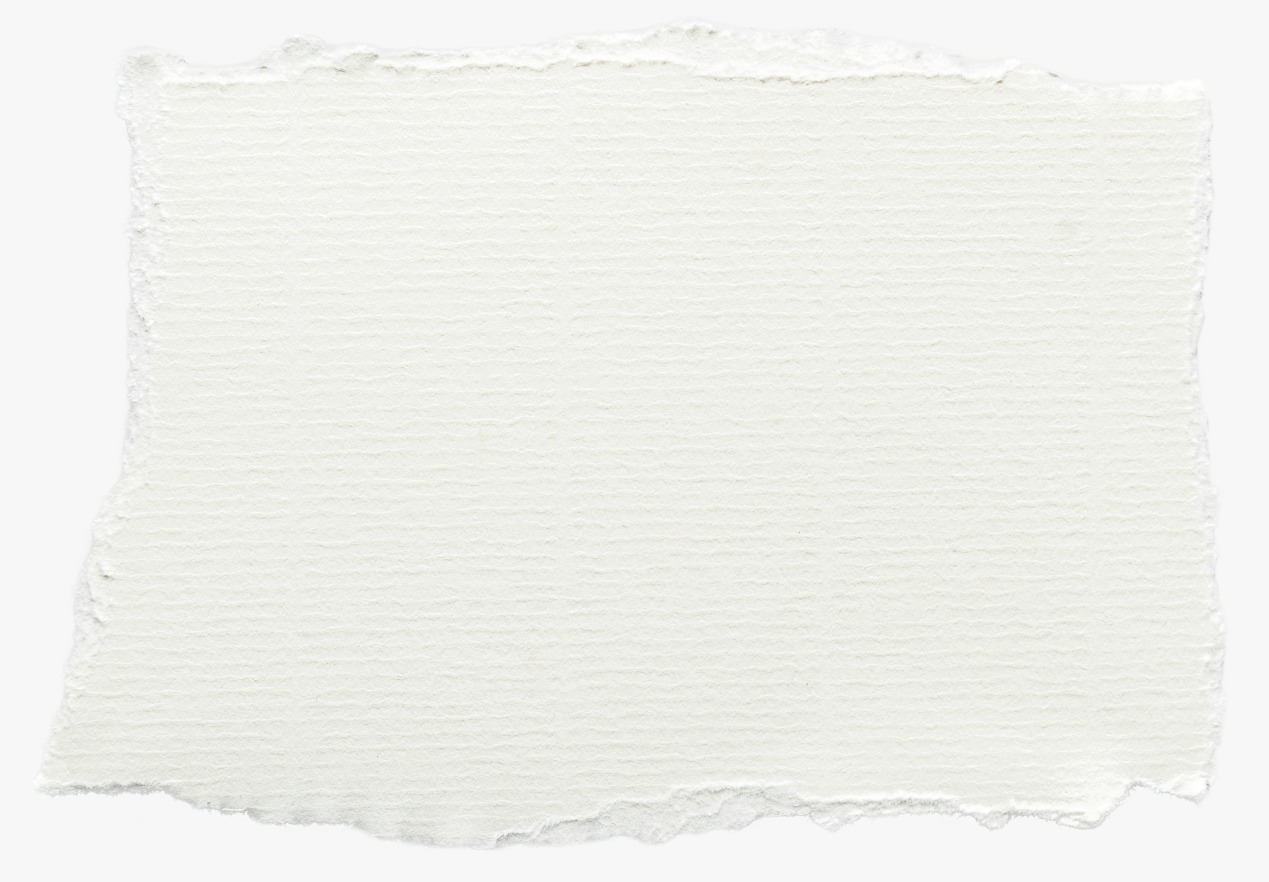
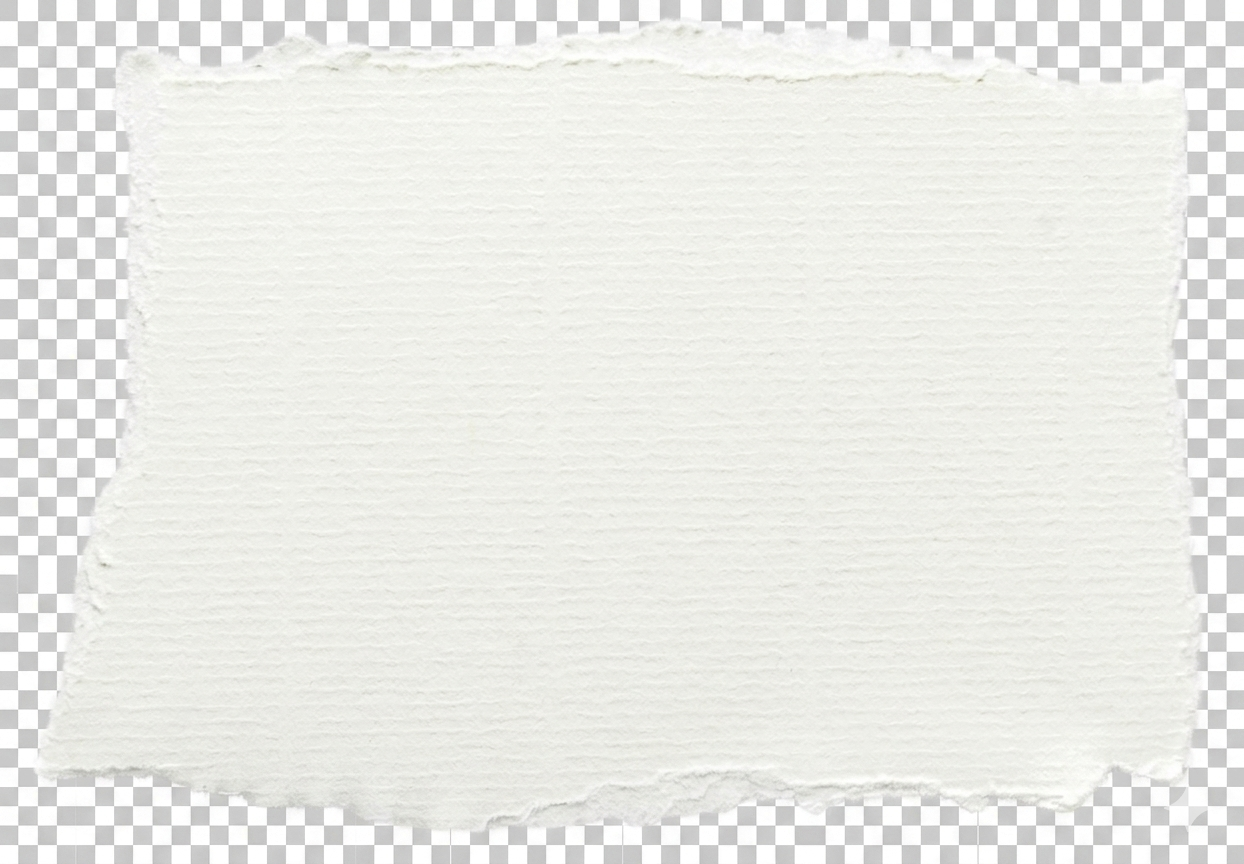
little design fixes

Changed region(s): [[0.0, 0.0, 1.0, 1.0]]

diff --git a/styles.css b/styles.css
@@ -142,15 +142,15 @@ button {
   display: grid;
   gap: 2px;
   justify-items: end;
-  min-width: 190px;
+  min-width: clamp(240px, 18vw, 340px);
   border-radius: 14px;
   background: #fff;
-  padding: 8px 10px 6px;
+  padding: 8px 18px 6px;
   direction: rtl;
 }
 
 .brand img {
-  width: clamp(135px, 14vw, 269px);
+  width: clamp(190px, 16vw, 310px);
   height: auto;
   border-radius: 8px;
   background: #fff;
@@ -359,16 +359,6 @@ button {
     transform 180ms ease,
     box-shadow 180ms ease,
     background 180ms ease;
-}
-
-.btn-with-icon {
-  gap: 10px;
-}
-
-.btn-with-icon img {
-  width: 20px;
-  height: 20px;
-  object-fit: contain;
 }
 
 .btn:hover,
@@ -676,6 +666,7 @@ button {
 .stats {
   padding-block: 24px var(--section-pad);
   margin-top: 100px;
+  direction: rtl;
 }
 
 .stats-grid {
@@ -762,6 +753,7 @@ button {
   background: var(--ink);
   color: white;
   box-shadow: var(--shadow-soft);
+  text-align: right;
 }
 
 .video-card-featured {
@@ -825,16 +817,49 @@ button {
   box-shadow: 0 14px 32px rgba(0, 6, 65, 0.24);
 }
 
-.video-card h3 {
-  margin: 0;
+.video-content {
+  display: grid;
+  gap: 8px;
   padding: 22px 24px 28px;
-  font-size: clamp(18px, 1.4vw, 26px);
+  direction: rtl;
 }
 
-.video-card-compact h3 {
-  padding: 18px 20px;
+.video-info {
+  color: var(--blue);
+  font-size: clamp(14px, 1vw, 18px);
+  font-weight: 800;
+  line-height: 1.2;
+}
+
+.video-title {
+  color: white;
+  font-size: clamp(20px, 1.55vw, 30px);
+  font-weight: 900;
+  line-height: 1.2;
+}
+
+.video-body {
+  color: rgba(255, 255, 255, 0.9);
+  font-size: clamp(15px, 1.1vw, 20px);
+  line-height: 1.45;
+}
+
+.video-card-compact .video-content {
+  padding: 16px 20px;
+}
+
+.video-card-compact .video-info {
+  font-size: clamp(12px, 0.85vw, 15px);
+}
+
+.video-card-compact .video-title {
   font-size: clamp(16px, 1.1vw, 22px);
   line-height: 1.25;
+}
+
+.video-card-compact .video-body {
+  font-size: clamp(13px, 0.9vw, 16px);
+  line-height: 1.35;
 }
 
 .media-layout {
@@ -861,15 +886,16 @@ button {
   padding: clamp(52px, 4vw, 74px) clamp(40px, 3vw, 58px);
   position: relative;
   text-align: center;
-  filter: drop-shadow(0 16px 26px rgba(0, 6, 65, 0.1));
+  background: transparent;
+  width: 500px;
 }
 
 .media-card::before {
   content: "";
   position: absolute;
-  inset: -10px;
+  inset: 0;
   z-index: -1;
-  background: var(--media-paper) center / 104% 104% no-repeat;
+  background: var(--media-paper) center / contain no-repeat;
 }
 
 .media-source {
@@ -1052,10 +1078,10 @@ button {
   background: transparent;
 }
 
-.socials img {
-  width: 100%;
-  height: 100%;
-  object-fit: contain;
+.socials i {
+  color: white;
+  font-size: 22px;
+  line-height: 1;
 }
 
 .footer-bottom p {
@@ -1106,16 +1132,20 @@ button {
   }
 
   .header-cta {
-    min-width: 40px;
+    min-width: 76px;
     min-height: 40px;
-    width: 40px;
+    width: auto;
     height: 40px;
-    padding: 0;
-    font-size: 18px;
+    padding: 0 14px;
+    font-size: 14px;
   }
 
   .brand {
     min-width: auto;
+  }
+
+  .brand img {
+    width: 150px;
   }
 
   .menu-toggle {

diff --git a/content.js b/content.js
@@ -14,8 +14,6 @@ window.PRO_ALGORITHM_CONTENT = {
     mediaPaper: "assets/images/background images/media-paper.png",
     icons: {
       expertise: "assets/images/icons/icon-check-blue.png",
-      phone: "assets/images/icons/icon-phone-white.png",
-      mail: "assets/images/icons/icon-mail-green.png",
       socials: {
         YouTube: "assets/images/icons/icon-youtube-white.png",
         Instagram: "assets/images/icons/icon-instagram-white.png",
@@ -30,8 +28,8 @@ window.PRO_ALGORITHM_CONTENT = {
     { label: "מרכז ידע", target: "podcast" },
   ],
   cta: {
-    primary: "דברו עם מהנדס פתרונות",
-    secondary: "שלחו לנו מייל",
+    primary: "דברו עם מהנדס פתרונות ✆",
+    secondary: "שלחו לנו מייל ✉",
     contact: "← צרו קשר",
     email: "mailto:[email redacted]",
     phone: "tel:[phone redacted]",
@@ -101,9 +99,9 @@ window.PRO_ALGORITHM_CONTENT = {
     }
   ],
   stats: [
-    { value: "24,000+", title: "שרטוטים אדריכליים", body: "שעברו תחת ידינו", icon: "assets/images/icons/icon-sketch-blue.png", },
-    { value: "8,000+", title: "בניינים", body: "שלקחנו חלק בתכנונם", icon: "assets/images/icons/icon-building-blue.png", },
     { value: "מ״ר 50,000+", title: "קומות משרדים", body: "שתוכננו ומוטבו ב-AI", icon: "assets/images/icons/icon-briefcase-blue.png", },
+    { value: "8,000+", title: "בניינים", body: "שלקחנו חלק בתכנונם", icon: "assets/images/icons/icon-building-blue.png", },
+    { value: "24,000+", title: "שרטוטים אדריכליים", body: "שעברו תחת ידינו", icon: "assets/images/icons/icon-sketch-blue.png", },
   ],
   podcast: {
     eyebrow: "פודקאסט",
@@ -114,27 +112,37 @@ window.PRO_ALGORITHM_CONTENT = {
     allEpisodesUrl: "https://www.youtube.com/@ProAlgorithm-israel/videos",
     items: [
       {
-        title: "ד״ר הדס נור",
+        title: "איך הבינה המלאכותית משנה את כללי המשחק?",
+        body: "בפרק הזה אנחנו מארחים את ד״ר הדס נור – חוקרת את השינוי הגדול שמתרחש היום בעולם האדריכלות והעיצוב",
+        info: "פרק 5 | 20 ינואר 2026",
         url: "https://www.youtube.com/watch?v=F7tHmD-HIbQ",
         image: "assets/images/podcast thumbnails/podcast-5.png",
       },
       {
         title: "הנושאים המשמעותיים ביותר בעולם הטכנולוגי של היום",
+        body: "צח דבוש ונועד ג'ורנו נכנסים לעומקם של כמה מהנושאים המשמעותיים ביותר בעולם הטכנולוגי של היום",
+        info: "פרק 4 | 10 דצמבר 2025",
         url: "https://www.youtube.com/watch?v=2r0zz-L6ZUc",
         image: "assets/images/podcast thumbnails/podcast-4.png",
       },
       {
-        title: "אבלינה שיימן",
+        title: "מאחורי הקלעים של עולם המכירות והצמיחה",
+        body: "צח דבוש, CTO של פרו אלגוריתם, מארח את אבלינה שיימן, מנהלת השיווק והמכירות של החברה",
+        info: "פרק 3 | 9 דצמבר 2025",
         url: "https://www.youtube.com/watch?v=HFRGA_S8ZmI",
         image: "assets/images/podcast thumbnails/podcast-3.png",
       },
       {
-        title: "עוז פלג",
+        title: "עתיד הטכנולוגיה והעבודה",
+        body: "מה באמת הולך לקרות בעשור הקרוב? | נועד ג'ורנו × עוז פלג",
+        info: "פרק 2 | 7 דצמבר 2025",
         url: "https://www.youtube.com/watch?v=XfDlYjLkM14",
         image: "assets/images/podcast thumbnails/podcast-2.png",
       },
       {
-        title: "פרו אלגוריתם",
+        title: "בונים את הדיגיטל של ישראל",
+        body: "נועד ג'ורנו וצח דבוש מדברים על פרו אלגוריתם",
+        info: "פרק 1 | 20 נובמבר 2025",
         url: "https://www.youtube.com/watch?v=5ZjZ466ETAQ",
         image: "assets/images/podcast thumbnails/podcast-1.png",
       },
@@ -143,35 +151,28 @@ window.PRO_ALGORITHM_CONTENT = {
   media: {
     eyebrow: "תקשורת",
     title: "AI בעולם האדריכלות",
-    body: "4 כתבות בכלי התקשורת המובילים בישראל על AI ועתיד הנדל\"ן",
+    body: "3 כתבות בכלי התקשורת המובילים בישראל על AI ועתיד הנדל\"ן",
     items: [
       {
-        source: "מדיה",
+        source: "כלכליסט",
         title: "\"המענה לבעיות בענף הנדל\"ן יגיע מ-AI\"",
         body:
-          "ענף הנדל\"ן, אחד האיטיים ביותר באימוץ טכנולוגיה, נדחק למצב הדורש שינוי מהותי - והמענה לאתגרים יגיע מ-AI.",
-        url: "#",
+          "ענף הנדל\"ן, אחד האיטיים ביותר באימוץ טכנולוגיה, נדחק למצב הדורש שינוי מהותי - והמענה לאתגרים יגיע מ-AI ואימוץ טכלנולוגיה בקנה מידה רחב.",
+        url: "https://www.calcalist.co.il/conferences/article/sjbpz9p11wl",
       },
       {
-        source: "ראיון",
-        title: "איך אלגוריתמים משנים את שולחן התכנון",
+        source: "כלכליסט",
+        title: "\"המענה לבעיות בענף הנדל\"ן יגיע מ-AI\"",
         body:
-          "טקסט זמני לכתבה נוספת. החליפו בהמשך בלינק, לוגו מקור ותיאור מדויק.",
-        url: "#",
+          "ענף הנדל\"ן, אחד האיטיים ביותר באימוץ טכנולוגיה, נדחק למצב הדורש שינוי מהותי - והמענה לאתגרים יגיע מ-AI ואימוץ טכלנולוגיה בקנה מידה רחב.",
+        url: "https://www.calcalist.co.il/conferences/article/sjbpz9p11wl",
       },
       {
-        source: "כתבה",
-        title: "הדור הבא של תכנון מבוסס נתונים",
+        source: "כלכליסט",
+        title: "\"המענה לבעיות בענף הנדל\"ן יגיע מ-AI\"",
         body:
-          "טקסט זמני לכתבה נוספת. הכרטיסים נשארים גלילים במובייל ובדסקטופ.",
-        url: "#",
-      },
-      {
-        source: "סקירה",
-        title: "מ-AI למחסן הכלים של האדריכל",
-        body:
-          "טקסט זמני לכתבה נוספת. אפשר להוסיף עוד כרטיסים למערך הזה.",
-        url: "#",
+          "ענף הנדל\"ן, אחד האיטיים ביותר באימוץ טכנולוגיה, נדחק למצב הדורש שינוי מהותי - והמענה לאתגרים יגיע מ-AI ואימוץ טכלנולוגיה בקנה מידה רחב.",
+        url: "https://www.calcalist.co.il/conferences/article/sjbpz9p11wl",
       },
     ],
   },

diff --git a/script.js b/script.js
@@ -32,9 +32,6 @@
     $$("[data-logo-white]").forEach((image) => {
       image.src = content.assets.logoWhite;
     });
-    $$('[data-icon="phone"]').forEach((image) => {
-      image.src = content.assets.icons.phone;
-    });
     setText('[data-content="hero-title"]', content.hero.title);
     setText('[data-content="hero-body"]', content.hero.body);
     setText('[data-content="solutions-eyebrow"]', content.solutionsIntro.eyebrow);
@@ -57,19 +54,6 @@
     setLink('[data-content="secondary-cta"]', content.cta.email);
     setLink('[data-content="contact-phone"]', content.cta.phone);
     setLink('[data-content="podcast-all"]', content.podcast.allEpisodesUrl);
-    decorateCtas();
-  }
-
-  function decorateCtas() {
-    $$('[data-content="primary-cta"]').forEach((node) => {
-      node.classList.add("btn-with-icon");
-      node.innerHTML = `<span>${content.cta.primary}</span><img src="${content.assets.icons.phone}" alt="" />`;
-    });
-
-    $$('[data-content="secondary-cta"]').forEach((node) => {
-      node.classList.add("btn-with-icon", "btn-with-icon-secondary");
-      node.innerHTML = `<span>${content.cta.secondary}</span><img src="${content.assets.icons.mail}" alt="" />`;
-    });
   }
 
   function renderNav() {
@@ -184,7 +168,11 @@
               <img src="${item.image}" alt="" loading="lazy" />
               <span class="play-button" aria-hidden="true">▶</span>
             </span>
-            <h3>${item.title}</h3>
+            <span class="video-content">
+              <span class="video-info">${item.info}</span>
+              <span class="video-title">${item.title}</span>
+              <span class="video-body">${item.body}</span>
+            </span>
           </a>
         `;
 
@@ -218,7 +206,7 @@
       .map(
         (item) => `
           <a href="${item.url}" target="_blank" rel="noreferrer" aria-label="${item.label}">
-            <img src="${content.assets.icons.socials[item.label]}" alt="" loading="lazy" />
+            <i class="${item.icon}" aria-hidden="true"></i>
           </a>
         `,
       )

diff --git a/index.html b/index.html
@@ -12,6 +12,10 @@
       href="https://fonts.googleapis.com/css2?family=Heebo:wght@300;400;500;700;800;900&display=swap"
       rel="stylesheet"
     />
+    <link
+      rel="stylesheet"
+      href="https://cdnjs.cloudflare.com/ajax/libs/font-awesome/6.5.2/css/all.min.css"
+    />
     <link rel="stylesheet" href="styles.css" />
     <script src="content.js" defer></script>
     <script src="script.js" defer></script>
@@ -23,7 +27,7 @@
       <nav class="header-shell" aria-label="ניווט ראשי">
         <a class="header-cta" data-content="contact-phone" href="#" aria-label="צרו קשר">
           <span class="desktop-only">צרו קשר</span>
-          <img class="mobile-only cta-icon" data-icon="phone" src="assets/images/icons/icon-phone-white.png" alt="" />
+          <span class="mobile-only">צרו קשר</span>
         </a>
 
         <div class="header-links" data-nav-links></div>